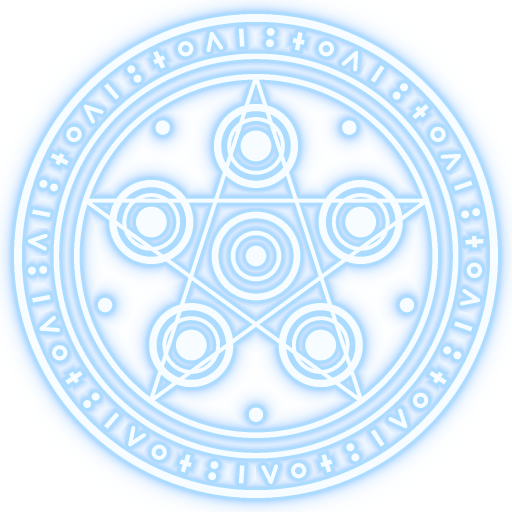
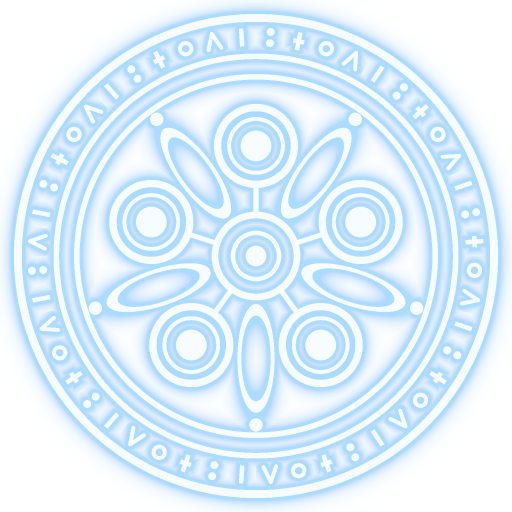
Elf Mage UI art round 2: no pentagram in the magic circle, flat ribbon tails, phone circles clear of the caption
magic_circle.png: the pentagon of chords is gone; 5 lobes now join the hub by short spokes with curved petals between
them. staff_icon.png: two short flat swallowtail ribbon tails from the wrap, thinner than the shaft. Phone osu mock-up:
circle rows packed lower so every ring stays below the timer strip.

diff --git a/tools/blender/portrait/draw_mage_ui.py b/tools/blender/portrait/draw_mage_ui.py
@@ -183,16 +183,12 @@ def draw_staff(size=512):
 	ribbon = ((214, 44, 48), (255, 112, 104), (140, 18, 32))
 	gy, gu = 0.0, 1.0  # gem centre
 
-	# Ribbon tails behind the shaft, falling to the lower right of the screen.
-	for path, r0, r1 in (
-		([(0.06, -0.06), (0.22, -0.34), (0.18, -0.6), (0.3, -0.84)], 0.085, 0.075),
-		([(0.08, 0.04), (0.42, -0.12), (0.52, -0.44), (0.8, -0.68)], 0.115, 0.1),
-	):
-		(ax, ay), (bx, by) = path[-2], path[-1]
-		dx, dy = (bx - ax) / np.hypot(bx - ax, by - ay), (by - ay) / np.hypot(bx - ax, by - ay)
-		end = (bx + dx * r1, by + dy * r1)
-		notch = [(end[0] - dx * r1 * 1.1, end[1] - dy * r1 * 1.1), (end[0] + dy * r1 * 1.3, end[1] - dx * r1 * 1.3), (end[0] - dy * r1 * 1.3, end[1] + dx * r1 * 1.3)]
-		tail = np.maximum(polyline(s, u, path, r0, r1), -polygon(s, u, notch))  # swallowtail end
+	# Two short flat ribbon tails hanging from the wrap, thinner than the shaft, with swallowtail ends.
+	for (ox, oy), (dx, dy), length in (((0.1, 0.06), (0.5, -0.87), 0.5), ((0.1, 0.18), (0.72, -0.69), 0.62)):
+		nx, ny = -dy, dx
+		ex, ey = ox + dx * length, oy + dy * length
+		w0, w1 = 0.055, 0.075
+		tail = polygon(s, u, [(ox + nx * w0, oy + ny * w0), (ex + nx * w1, ey + ny * w1), (ex - dx * 0.09, ey - dy * 0.09), (ex - nx * w1, ey - ny * w1), (ox - nx * w0, oy - ny * w0)])
 		part(img, tail, ribbon, OL, BAND)
 	# Shaft and its gold butt band.
 	part(img, segment(s, u, 0, -2.05, 0, 0.5, 0.1), maroon, OL, BAND)
@@ -377,18 +373,20 @@ def draw_magic_circle(size=512):
 	]
 	rune = np.select([kind == i for i in range(5)], marks)
 	d = np.minimum(d, rune)
-	# Inner ring with small notches, a pentagon of chords, 5 round lobes with a pupil each, the hub.
+	# Inner ring, 5 round lobes with a pupil each, each joined to the hub by a spoke, curved petals between them, the hub.
 	d = np.minimum(d, ring(x, y, 0, 0, 0.7, line))
 	for i in range(5):
 		t = -np.pi / 2 + i * 2 * np.pi / 5
-		t2 = t + 2 * np.pi / 5 * 2
-		d = np.minimum(d, segment(x, y, np.cos(t) * 0.7, np.sin(t) * 0.7, np.cos(t2) * 0.7, np.sin(t2) * 0.7, line * 0.7))
+		d = np.minimum(d, segment(x, y, np.cos(t) * 0.16, np.sin(t) * 0.16, np.cos(t) * 0.28, np.sin(t) * 0.28, line * 0.9))
+		pm = t + np.pi / 5  # petal: an ellipse outline between two lobes
+		pa = x * np.cos(pm) + y * np.sin(pm) - 0.4
+		pb = -x * np.sin(pm) + y * np.cos(pm)
+		d = np.minimum(d, np.abs(np.hypot(pa / 0.19, pb / 0.065) - 1) * 0.065 - line * 0.7)
 		lx, ly = np.cos(t) * 0.43, np.sin(t) * 0.43
 		d = np.minimum(d, ring(x, y, lx, ly, 0.15, line * 1.3))
 		d = np.minimum(d, ring(x, y, lx, ly, 0.105, line * 0.7))
 		d = np.minimum(d, circle(x, y, lx, ly, 0.06))
-		m = t + np.pi / 5
-		d = np.minimum(d, circle(x, y, np.cos(m) * 0.62, np.sin(m) * 0.62, 0.028))
+		d = np.minimum(d, circle(x, y, np.cos(pm) * 0.66, np.sin(pm) * 0.66, 0.026))
 	d = np.minimum(d, ring(x, y, 0, 0, 0.16, line * 1.2))
 	d = np.minimum(d, ring(x, y, 0, 0, 0.09, line * 0.8))
 	d = np.minimum(d, circle(x, y, 0, 0, 0.04))
@@ -586,6 +584,8 @@ def mock_osu(art, masks, w, h, phone, t=1.0):
 	diameter = 68 if phone else 104  # image size; the white rim's outer edge is 0.9 of it
 	for i, (px, py) in enumerate(SPOTS):
 		cx, cy2 = px * k, py * k
+		if phone:  # pack the rows tighter and lower, so the largest ring stays below the timer strip
+			cy2 = 175 + (py - 260) * 0.48
 		due = DUE[i]
 		shown = due - APPROACH
 		if t < shown:
